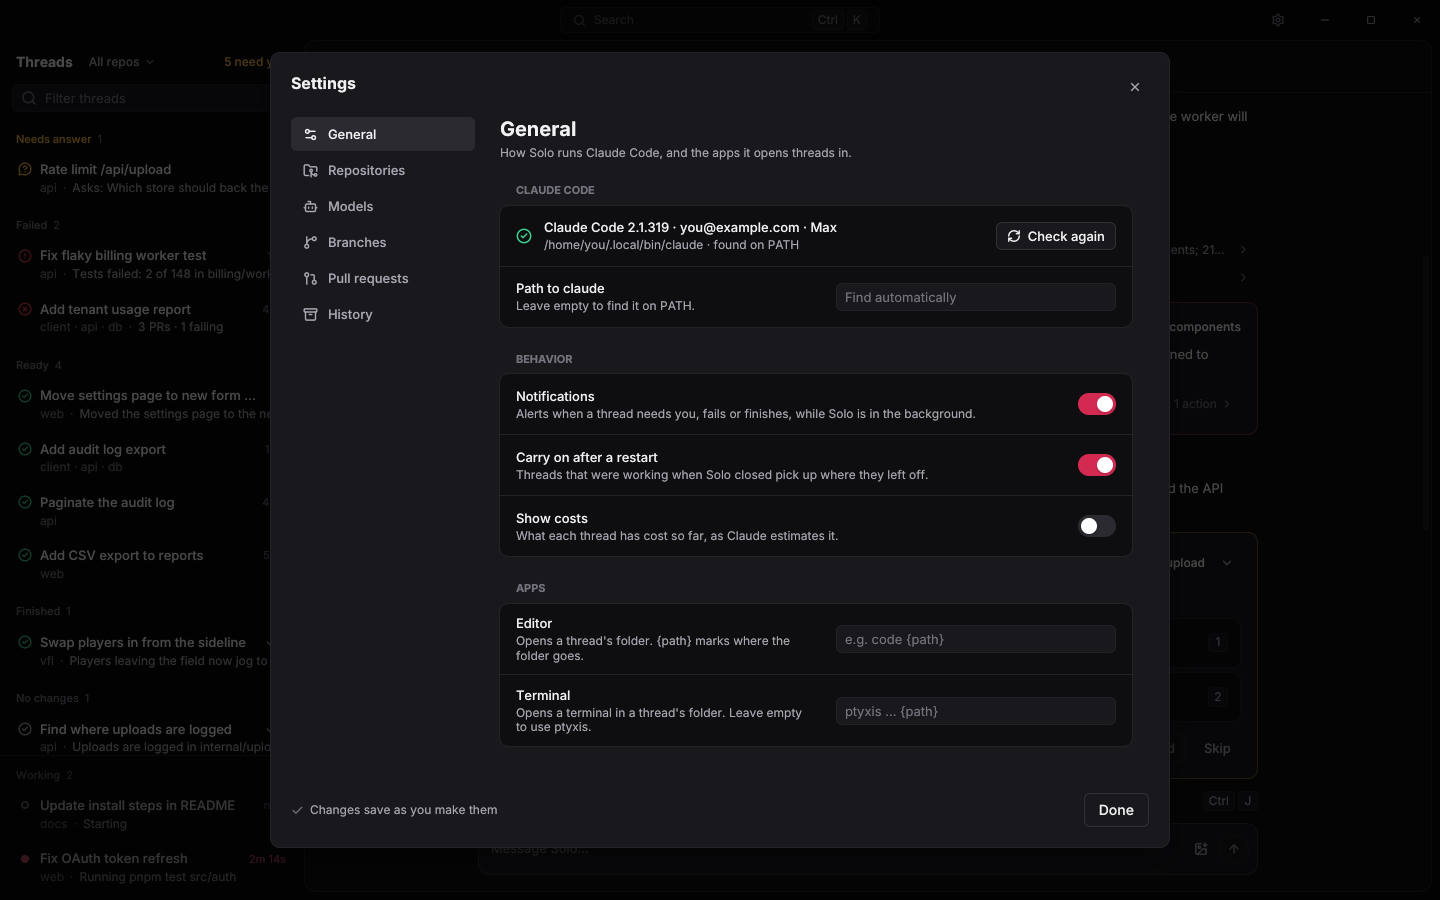
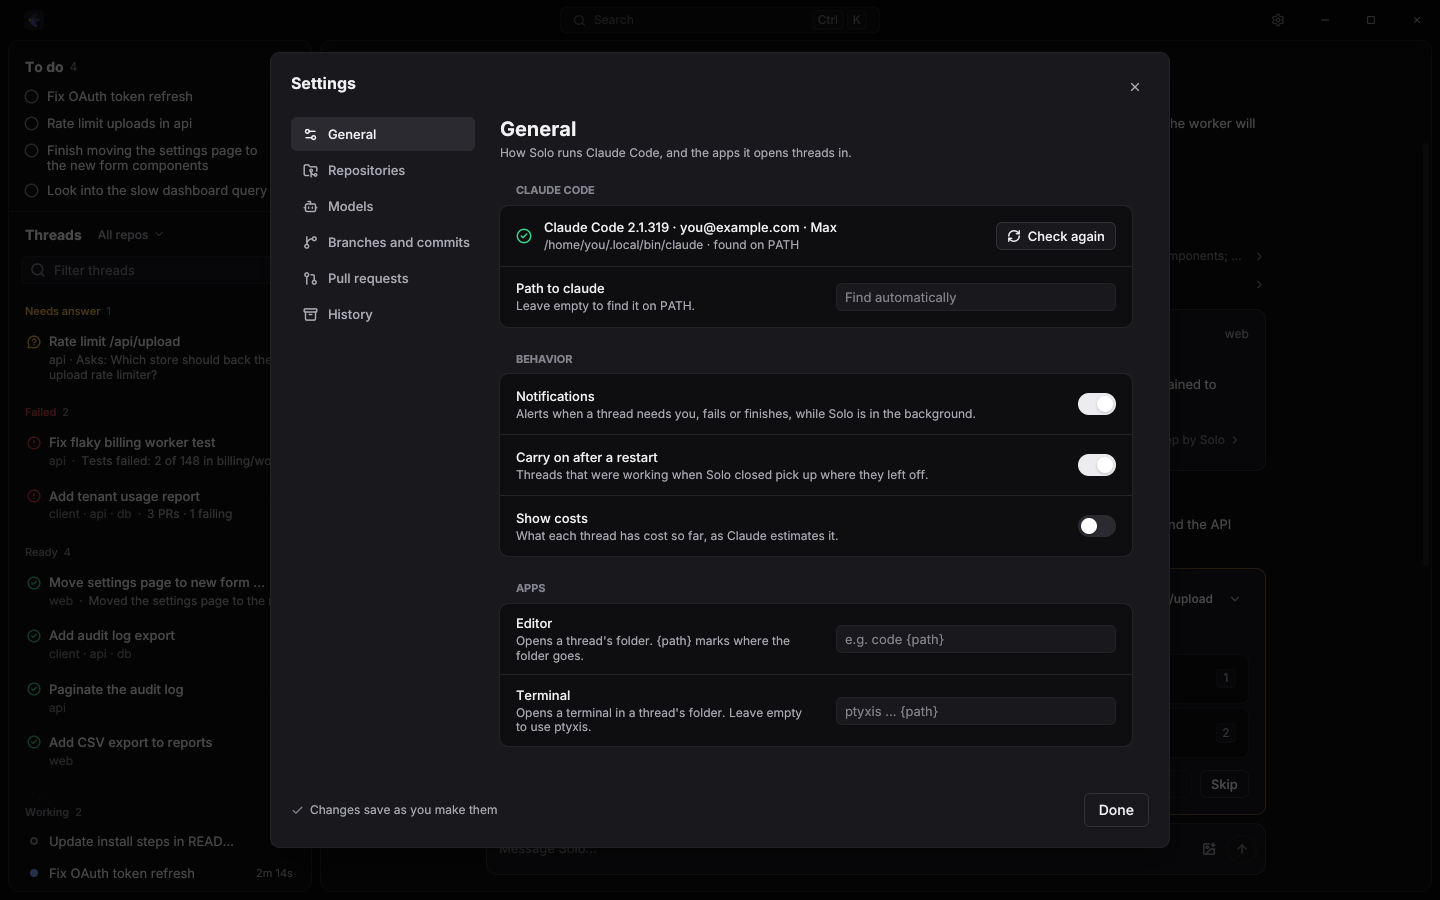
feat(gui): new brand mark, a panel for the sidebar, and no header over Solo's chat
The Solo mark is the new icon set's: three indigo petals around an amber dot on a dark tile. It replaces the crimson ring in the app, the desktop icon and the web client, which also gains a favicon and a touch icon. Links, the focus ring and text selection take the mark's indigo.

Solo's chat loses its header bar, with the mark now at the start of the title bar, above the sidebar. The counts of working, failed and ready threads went with the bar; the sidebar's groups still give them. The top of the chat fades into its panel, and the sidebar sits in a panel of its own, 16 px wider on windows of 1200 px and more.

diff --git a/cmd/solo-web/web/index.html b/cmd/solo-web/web/index.html
@@ -5,6 +5,9 @@
 <meta name="viewport" content="width=device-width, initial-scale=1, viewport-fit=cover">
 <meta name="color-scheme" content="light dark">
 <title>Solo</title>
+<link rel="icon" href="favicon.ico" sizes="32x32">
+<link rel="icon" href="icon.svg" type="image/svg+xml">
+<link rel="apple-touch-icon" href="apple-touch-icon.png">
 <link rel="preload" href="fonts/Go-Regular.ttf" as="fetch" crossorigin>
 <link rel="stylesheet" href="solo.css">
 </head>

diff --git a/internal/gui/chat.go b/internal/gui/chat.go
@@ -53,7 +53,6 @@ func (a *App) orchestratorView(ctx *ui.Context) ui.Element {
 		body = a.transcript(ctx, v, items, "orch")
 	}
 	return ui.Div().Column().Grow(1).MinHeight(ui.Px(0)).
-		Child(a.orchestratorBar(ctx, v)).
 		Child(body).
 		Child(ui.Div().Column().Align(ui.Center).PaddingX(gutter(ctx)).PaddingBottom(gutter(ctx) - space2).Shrink(0).
 			Child(ui.Div().Column().Gap(space2).Width(ui.Full).MaxWidth(ui.Px(chatMaxWidth)).
@@ -64,8 +63,8 @@ func (a *App) orchestratorView(ctx *ui.Context) ui.Element {
 		Background(t.Background)
 }
 
-// orchState says what Solo is doing, beside its name: waiting for an answer, working, or waiting on
-// background work. It is empty when Solo is idle.
+// orchState says what Solo is doing, beside its name in a compact window's bar: waiting for an answer,
+// working, or waiting on background work. It is empty when Solo is idle.
 func (a *App) orchState(ctx *ui.Context, v core.ThreadView) *ui.DivElement {
 	t := ctx.Theme()
 	state := ui.Div().Row().Align(ui.Center).Gap(6).Shrink(1).MinWidth(ui.Px(0))
@@ -84,74 +83,6 @@ func (a *App) orchState(ctx *ui.Context, v core.ThreadView) *ui.DivElement {
 			Child(ui.Text("Waiting on " + bgLine(v)).FontSize(12).TextColor(t.TextMuted).Truncate().MinWidth(ui.Px(0)))
 	}
 	return state
-}
-
-func (a *App) orchestratorBar(ctx *ui.Context, v core.ThreadView) ui.Element {
-	t := ctx.Theme()
-	if isCompact(ctx) {
-		return nil // the window's bar names Solo and says what it is doing (compactBar)
-	}
-	return ui.Div().Row().Align(ui.Center).Gap(space3).PaddingX(space4).Height(ui.Px(52)).Shrink(0).
-		BorderEdges(ui.Edges{Bottom: 1}, t.Border).
-		Child(brandMark(20)).
-		Child(ui.Text("Solo").FontSize(14).Semibold().NoWrap()).
-		Child(a.orchState(ctx, v)).
-		Child(ui.Div().Grow(1)).
-		Child(a.threadsSummary(ctx))
-}
-
-// threadsSummary sums up the threads at the right of Solo's bar, as the rail groups them: how many
-// work, wait on background work, failed and are ready. Each opens the newest thread of its group.
-func (a *App) threadsSummary(ctx *ui.Context) ui.Element {
-	t := ctx.Theme()
-	type group struct {
-		title, status, label string
-		statuses             []string // the shown statuses it counts
-	}
-	// Questions have their own line above the composer, so they aren't counted again here. Threads
-	// waiting on background work sit in the rail's Working group, but are counted apart: they aren't
-	// busy, and they aren't ready either.
-	groups := []group{
-		{"Working", core.StatusRunning, "working", []string{core.StatusRunning, core.StatusStarting, core.StatusQueued}},
-		{"Waiting on background work", core.StatusBackground, "in background", []string{core.StatusBackground}},
-		{"Failed", core.StatusFailed, "failed", railStatuses("Failed")},
-		{"Ready", core.StatusIdle, "ready", railStatuses("Ready")},
-	}
-	row := ui.Div().Row().Align(ui.Center).Gap(space1).Shrink(0)
-	for _, g := range groups {
-		var in []core.ThreadView
-		for _, th := range a.threads.Get() {
-			if inRail(th) && slices.Contains(g.statuses, shownStatus(th)) {
-				in = append(in, th)
-			}
-		}
-		if len(in) == 0 {
-			continue
-		}
-		slices.SortStableFunc(in, func(x, y core.ThreadView) int { return y.UpdatedAt.Compare(x.UpdatedAt) })
-		text := fmt.Sprintf("%d %s", len(in), g.label)
-		shown := text
-		first := in[0].ID
-		row = row.Child(ui.Div().Row().Align(ui.Center).Gap(6).PaddingLeft(space2-2).PaddingRight(space2+2).
-			Height(ui.Px(24)).Radius(999).Border(1, t.Border).
-			Cursor(ui.CursorPointer).Hover(ui.Style{Background: t.SurfaceHover, BorderColor: t.BorderStrong}).
-			Role(access.RoleButton).Label(text + ": open the newest").TabIndex(0).
-			Tooltip(g.title + ": open the newest · Ctrl+J opens the next that needs you").
-			OnClick(func() { a.openThread(first, "conversation") }).
-			Child(statusMark(ctx, g.status)).
-			Child(ui.Text(shown).FontSize(12).TextColor(t.TextMuted).NoWrap()))
-	}
-	return row
-}
-
-// railStatuses are the shown statuses of the rail group with the title.
-func railStatuses(title string) []string {
-	for _, g := range railGroups {
-		if g.title == title {
-			return g.statuses
-		}
-	}
-	return nil
 }
 
 func (a *App) welcome(ctx *ui.Context) ui.Element {
@@ -248,12 +179,23 @@ func (a *App) transcript(ctx *ui.Context, v core.ThreadView, items []core.Item, 
 		}))
 	}
 	return view.
+		Child(ui.If(!isCompact(ctx), topFade(ctx))). // a compact window has its bar above the chat
 		Child(ui.Component(func(ctx *ui.Context) ui.Element {
 			return jumpControl(ctx, h, topJump(a.offscreenActions(rows, true)), true)
 		})).
 		Child(ui.Component(func(ctx *ui.Context) ui.Element {
 			return jumpControl(ctx, h, bottomJump(atEnd.Get(), a.offscreenActions(rows, false)), false)
 		}))
+}
+
+// topFade fades the top of Solo's chat into its panel, which has no bar above it: a message scrolling
+// away dissolves at the panel's edge rather than being cut by it. It is the shadow, in the panel's
+// color, of a strip just above the chat, where the panel clips the strip itself: nothing lies over the
+// rows, so they still take clicks and the wheel right up to the edge.
+func topFade(ctx *ui.Context) ui.Element {
+	const strip = 64 // tall enough that its shadow is solid along its edge
+	return ui.Div().Absolute().Left(-space8).Right(-space8).Top(-strip).Height(ui.Px(strip)).AccessHidden().
+		Shadow(ui.Shadow{Y: 16, Blur: 30, Color: ctx.Theme().Background})
 }
 
 // listHandle is the handle of the transcript list of scope ("orch", or "thread-" and its ID).

diff --git a/internal/gui/design.go b/internal/gui/design.go
@@ -1,13 +1,11 @@
 package gui
 
 // Solo's design system, after uas (~/code/uas/internal/gui/design.go): neutral near-black or white
-// surfaces with hairline borders, and crimson kept for the brand mark and links. Primary actions are
+// surfaces with hairline borders, and the indigo of the brand mark kept for links. Primary actions are
 // high-contrast neutral (white on dark, near-black on light), so no action reads as a warning.
-// Danger is a deeper, pure red, so failures stay apart from the pinker brand.
 // Pages use these tokens and components rather than raw sizes and colors.
 
 import (
-	"bytes"
 	"embed"
 	_ "embed"
 	"fmt"
@@ -60,8 +58,8 @@ var darkPalette = palette{
 	background: "#0e0e10", panel: "#08080a", surface: "#19191d", surfaceHover: "#202025", surfaceActive: "#2a2a30",
 	border: "#222227", borderStrong: "#313137",
 	text: "#f2f2f4", textMuted: "#acacb6", textSubtle: "#85858f",
-	accent: "#ececf0", accentHover: "#ffffff", accentActive: "#d0d0d6", accentText: "#0e0e10", link: "#ff94aa",
-	brand:   "#ff5a80",
+	accent: "#ececf0", accentHover: "#ffffff", accentActive: "#d0d0d6", accentText: "#0e0e10", link: "#9ca5ff",
+	brand:   "#7b86ff",
 	success: "#3ecf8e", warning: "#f5b544", danger: "#e03e3e", info: "#7aa7ff",
 	scrollbar: "#2e2e34", scrim: "#000000b3",
 }
@@ -70,8 +68,8 @@ var lightPalette = palette{
 	background: "#ffffff", panel: "#efeff2", surface: "#ffffff", surfaceHover: "#e8e8ec", surfaceActive: "#dfdfe5",
 	border: "#e3e3e8", borderStrong: "#d4d4db",
 	text: "#0c0c0e", textMuted: "#4f4f58", textSubtle: "#6c6c76",
-	accent: "#18181b", accentHover: "#2c2c31", accentActive: "#3f3f46", accentText: "#ffffff", link: "#bb1a43",
-	brand:   "#d6214f",
+	accent: "#18181b", accentHover: "#2c2c31", accentActive: "#3f3f46", accentText: "#ffffff", link: "#4450d6",
+	brand:   "#5560e8",
 	success: "#15803d", warning: "#a94e07", danger: "#b91c1c", info: "#2459c7",
 	scrollbar: "#d0d0d6", scrim: "#0c0c0e59",
 }
@@ -84,8 +82,7 @@ func codeColor(t *ui.Theme) ui.Color {
 	return ui.Hex("#0b7a6c")
 }
 
-// workingColor marks work in progress: a calm blue, so a running thread never reads as an error or
-// as the crimson of the brand and primary actions.
+// workingColor marks work in progress: a calm blue, so a running thread never reads as an error.
 func workingColor(t *ui.Theme) ui.Color { return ui.Hex(pal(t).info) }
 
 func pal(t *ui.Theme) palette {
@@ -100,7 +97,7 @@ func Themes() (light, dark *ui.Theme) {
 	light, dark = buildTheme(ui.LightTheme(), lightPalette), buildTheme(ui.DarkTheme(), darkPalette)
 	for _, t := range []*ui.Theme{light, dark} {
 		// Inline code is colored, without a box: a box per word reads as a row of chips.
-		// Teal, so code never reads as an error or as the crimson brand.
+		// Teal, so code never reads as an error or as a link.
 		ui.SetThemeStyle(t, markdown.Style{InlineCode: ui.Style{TextColor: codeColor(t), Background: t.Background}})
 	}
 	return light, dark
@@ -357,16 +354,14 @@ func chip(ctx *ui.Context, label string) *ui.DivElement {
 		Child(ui.Text(label).FontSize(12).TextColor(t.TextMuted).NoWrap())
 }
 
-// The Solo logo: an open ring with one bead in its gap (one agent keeping the work in orbit) on a
-// crimson tile. brand/solo.svg is also the desktop icon, which keeps a margin around the tile; in the
-// app the tile fills the box. Regenerate cmd/solo/icon.png after changing it:
-//
-//	magick -background none -density 576 internal/gui/brand/solo.svg -resize 256x256 PNG32:cmd/solo/icon.png
+// The Solo logo: three indigo petals fanning out from an amber dot, on a dark tile. The desktop icon
+// (cmd/solo/icon.png) and the web client's icons (cmd/solo-web/web: favicon.ico, icon.svg and
+// apple-touch-icon.png) are the same drawing: replace them together with brand/solo.svg.
 //
 //go:embed brand/solo.svg
 var logoSVG []byte
 
-var logo = ui.MustSVG(bytes.Replace(logoSVG, []byte(`viewBox="0 0 128 128"`), []byte(`viewBox="8 8 112 112"`), 1))
+var logo = ui.MustSVG(logoSVG)
 
 // BrandMark is Solo's mark, for screens outside this package (the web client's).
 func BrandMark(size float32) ui.Element { return brandMark(size) }
@@ -409,7 +404,7 @@ func Fonts() []Font {
 	return out
 }
 
-// statusMark is a thread status's mark: a pulsing crimson dot while it works, a check when it is ready,
+// statusMark is a thread status's mark: a pulsing blue dot while it works, a check when it is ready,
 // and a plain dot otherwise (amber, red, or grey), so no two states look alike.
 func statusMark(ctx *ui.Context, status string) *ui.DivElement {
 	t := ctx.Theme()

diff --git a/internal/gui/app.go b/internal/gui/app.go
@@ -25,7 +25,7 @@ import (
 )
 
 const (
-	railWidth       = 304
+	railWidth       = 320
 	railWidthNarrow = 248 // below narrowWindow, so the chat and a thread still fit side by side
 	narrowWindow    = 1200
 	// Below compactWindow, as on a phone, there is room for one conversation at a time: Solo's, or
@@ -662,8 +662,8 @@ func (a *App) Root(ctx *ui.Context) ui.Element {
 		Child(ui.Toaster().Key("toaster"))
 }
 
-// titleBar is the window's own title bar: a "go to a thread" box in the middle, and the window's buttons.
-// It carries no Solo mark: the orchestrator's header just below already shows the mark and the name.
+// titleBar is the window's own title bar: the Solo mark at its start, over the rail, a "go to a thread"
+// box in the middle, and the window's buttons.
 func (a *App) titleBar(ctx *ui.Context) ui.Element {
 	t := ctx.Theme()
 	if isCompact(ctx) {
@@ -692,6 +692,7 @@ func (a *App) titleBar(ctx *ui.Context) ui.Element {
 	trailing = append(trailing, ui.IconButton(icons.Settings).Ghost().Small().Label("Settings").Tooltip("Settings").
 		Key("open-settings").OnClick(func() { a.settings.Set(true) }))
 	return ui.TitleBar().Height(ui.Px(40)).
+		Child(ui.Div().PaddingLeft(space6).Child(brandMark(20))). // in line with the rail's headings
 		Center(find).
 		Trailing(trailing...)
 }
@@ -800,8 +801,8 @@ func inset(ctx *ui.Context, content ui.Element) *ui.DivElement {
 		Child(content)
 }
 
-// center holds the thread rail on the left, the orchestrator, and, when a thread is open, its panel on
-// the right: it slides in from the right edge to half the space (the user can drag the divider) and
+// center holds the thread rail on the left, in a panel of its own, the orchestrator, and, when a thread
+// is open, its panel on the right: it slides in from the right edge to half the space (the user can drag the divider) and
 // slides back out when closed.
 func (a *App) center(ctx *ui.Context) ui.Element {
 	t := ctx.Theme()
@@ -853,7 +854,8 @@ func (a *App) center(ctx *ui.Context) ui.Element {
 		main = ui.Div().Column().Size(ui.Full, ui.Full).PaddingRight(space2).Child(orch)
 	}
 	return ui.Div().Row().Size(ui.Full, ui.Full).
-		Child(ui.Div().Width(ui.Px(railW(ctx))).Height(ui.Full).Shrink(0).Child(ui.Component(a.rail))).
+		Child(ui.Div().Width(ui.Px(railW(ctx))).Height(ui.Full).Shrink(0).PaddingX(space2).PaddingBottom(space2).
+			Child(inset(ctx, ui.Component(a.rail)))).
 		Child(ui.Div().Column().Grow(1).Basis(ui.Px(0)).MinWidth(ui.Px(0)).Height(ui.Full).Child(main))
 }
 

diff --git a/internal/gui/background_test.go b/internal/gui/background_test.go
@@ -31,8 +31,8 @@ func waitingOnBackground(f *fakeBackend) core.ThreadView {
 }
 
 // A thread waiting on background work is shown at work, not ready: in the rail's Working group with
-// the background mark, counted apart in Solo's bar, and with what it waits on above its composer. Its
-// header and its merge card agree that it can't land yet, and say why.
+// the background mark, and with what it waits on above its composer. Its header and its merge card
+// agree that it can't land yet, and say why.
 func TestBackgroundWorkIsShownAndBlocksLanding(t *testing.T) {
 	f := demoBackend()
 	th := waitingOnBackground(f)
@@ -42,12 +42,6 @@ func TestBackgroundWorkIsShownAndBlocksLanding(t *testing.T) {
 
 	if !u.Get("rail-working").HasRole(access.RoleButton, th.Title) {
 		t.Fatal("the thread is not in the rail's Working group")
-	}
-	if !u.HasRole(access.RoleButton, "1 in background: open the newest") {
-		t.Fatal("Solo's bar doesn't count the thread waiting on background work")
-	}
-	if u.HasRole(access.RoleButton, "1 ready: open the newest") {
-		t.Fatal("Solo's bar still counts it ready")
 	}
 	if line := u.Get("background-line").Text(); !strings.Contains(line, "Waiting on background work · 4m 1") ||
 		!strings.Contains(line, "Run benchmarks on the finished branch") {

diff --git a/internal/gui/rail.go b/internal/gui/rail.go
@@ -130,7 +130,8 @@ func (a *App) rail(ctx *ui.Context) ui.Element {
 			list = list.Child(a.threadRow(ctx, th))
 		}
 	}
-	return ui.Div().Column().Size(ui.Full, ui.Full).Background(t.Panel).
+	// No background of its own: it shows its panel's in a window, and the drawer's in a compact one.
+	return ui.Div().Column().Size(ui.Full, ui.Full).
 		Child(ui.Component(a.todoList)).
 		Child(head).
 		Child(a.railFilterInput(ctx)).

diff --git a/internal/cloudflare/cloudflare.go b/internal/cloudflare/cloudflare.go
@@ -193,6 +193,8 @@ func (a Asset) mime() string {
 		return "image/svg+xml"
 	case ".png":
 		return "image/png"
+	case ".ico":
+		return "image/x-icon"
 	}
 	return "application/octet-stream"
 }

diff --git a/docs/ARCHITECTURE.md b/docs/ARCHITECTURE.md
@@ -175,8 +175,8 @@ Raw `SDKMessage`s are also appended to a per-session JSONL file for debugging an
   with `run_in_background` or a background subagent still runs. The CLI sends
   `background_tasks_changed` with every live background task (replace semantics; ambient tasks are
   left out), which the sidecar forwards as a `background` event. A turn that completes with any left
-  ends `background`, not `idle`: shown at work (rail's Working group, an hourglass, "N in background"
-  in Solo's bar, the pinned line says what and for how long), landing disabled in the header and the
+  ends `background`, not `idle`: shown at work (rail's Working group, an hourglass, the pinned line
+  says what and for how long), landing disabled in the header and the
   merge card alike, `propose_merge` refused, and the orchestrator told it isn't finished. When a task
   finishes by itself (`task_notification` completed or failed) the list empties and the CLI starts a
   turn of its own to read it, so the thread stays `background` until that turn ends (30 s fallback if
